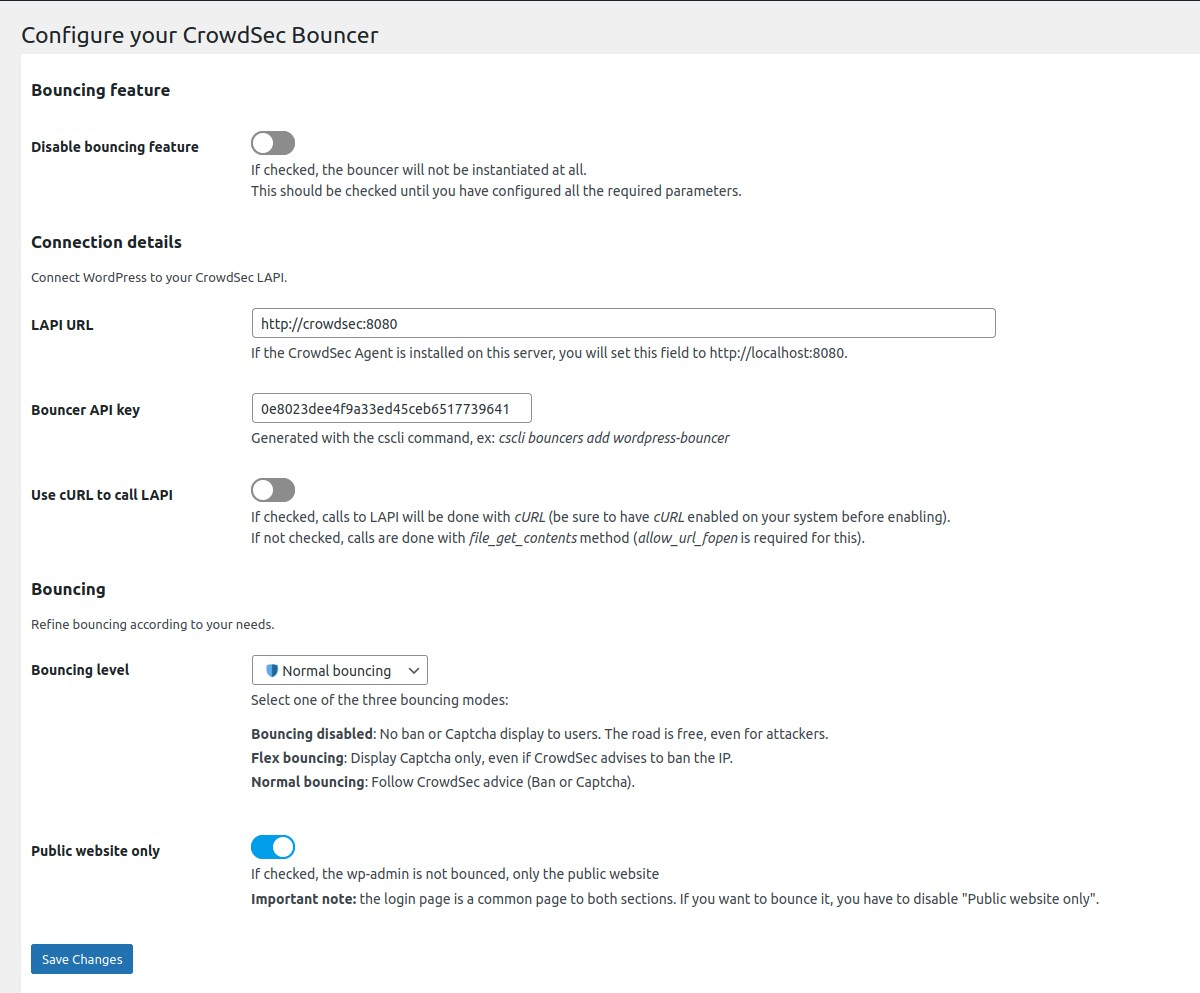
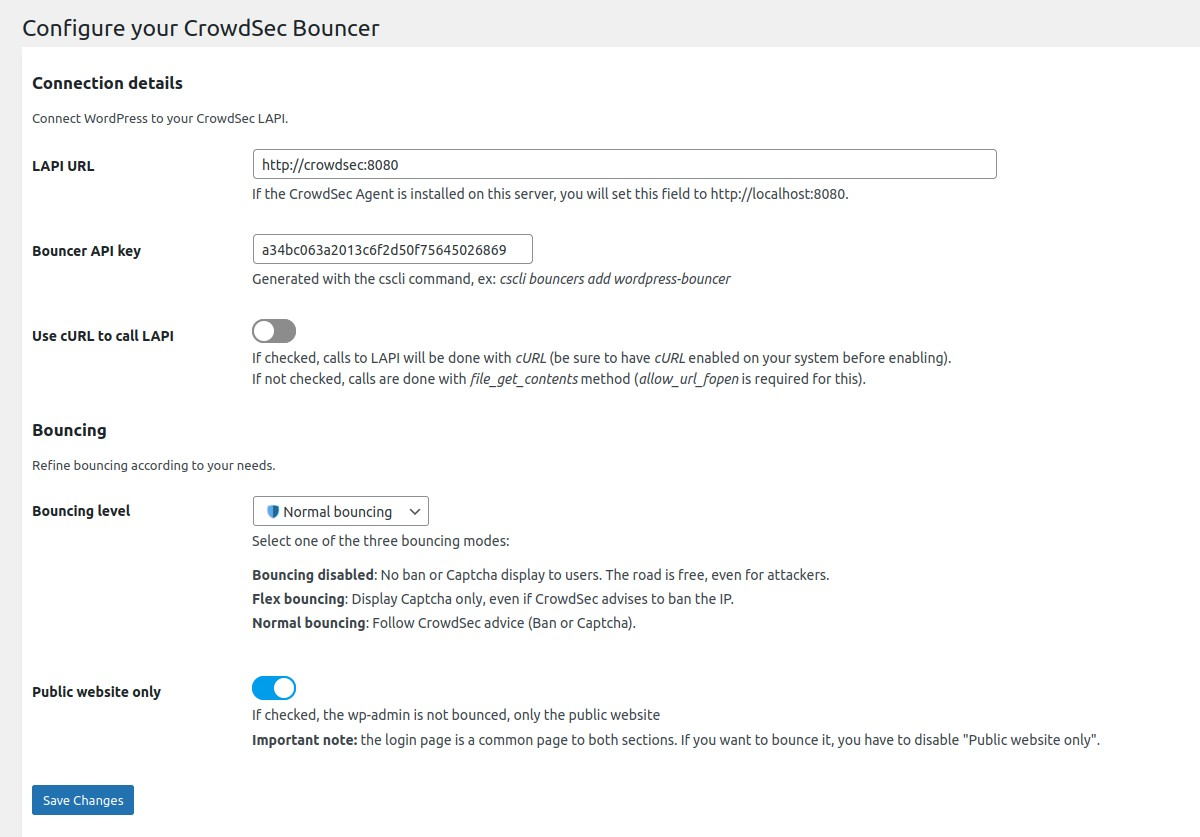
feat(*): Add disable_prod_log config and remove disable_bouncing config, prepare release 1.8.0

diff --git a/tests/e2e-ddev/utils/helpers.js b/tests/e2e-ddev/utils/helpers.js
@@ -12,9 +12,6 @@ const {
     PROXY_IP,
 } = require("./constants");
 
-const COOKIES_FILE_PATH = `${__dirname}/../.cookies.json`;
-const STANDALONE_SETTINGS_FILE_PATH = `${__dirname}/../../../inc/standalone-settings.php`;
-
 const wait = (ms) => new Promise((resolve) => setTimeout(resolve, ms));
 
 jest.setTimeout(TIMEOUT);
@@ -215,37 +212,21 @@ const forceCronRun = async () => {
     await wait(2000);
 };
 
-const storeCookies = async () => {
-    const cookies = await context.cookies();
-    const cookieJson = JSON.stringify(cookies);
-    fs.writeFileSync(COOKIES_FILE_PATH, cookieJson);
-};
-
-const loadCookies = async (context) => {
-    const cookies = fs.readFileSync(COOKIES_FILE_PATH, "utf8");
-    const deserializedCookies = JSON.parse(cookies);
-    await context.addCookies(deserializedCookies);
-};
-
-const deleteExistingStandaloneSettings = async () => {
-    if (fs.existsSync(STANDALONE_SETTINGS_FILE_PATH)) {
-        fs.unlinkSync(STANDALONE_SETTINGS_FILE_PATH);
-    }
-};
 
 const setDefaultConfig = async () => {
     await onAdminGoToSettingsPage();
-    await setToggle("crowdsec_bouncer_disabled", false);
     await fillInput("crowdsec_api_url", LAPI_URL_FROM_WP);
     await fillInput("crowdsec_api_key", BOUNCER_KEY);
     await setToggle("crowdsec_use_curl", false);
+    await selectByName("crowdsec_bouncing_level", "normal_bouncing");
     await onAdminSaveSettings(false);
 
     await onAdminGoToAdvancedPage();
     await setToggle("crowdsec_debug_mode", true);
+    await setToggle("crowdsec_disable_prod_log", false);
     await setToggle("crowdsec_display_errors", true);
     await setToggle("crowdsec_hide_mentions", false);
-    await page.selectOption("[name=crowdsec_cache_system]", "phpfs");
+    await selectByName("crowdsec_cache_system", "phpfs");
     await setToggle("crowdsec_stream_mode", false);
     // We have to save in order that cache duration fields to be visible (not disabled)
     await onAdminSaveSettings(false);
@@ -254,7 +235,7 @@ const setDefaultConfig = async () => {
     await fillInput("crowdsec_stream_mode_refresh_frequency", 1);
 
     await fillInput("crowdsec_trust_ip_forward_list", PROXY_IP);
-    await page.selectOption("[name=crowdsec_fallback_remediation]", "captcha");
+    await selectByName("crowdsec_fallback_remediation", "captcha");
 
     // Geolocation
     await setToggle("crowdsec_geolocation_enabled", false);
@@ -293,9 +274,6 @@ module.exports = {
     onCaptchaPageRefreshCaptchaImage,
     forceCronRun,
     fillInput,
-    storeCookies,
-    loadCookies,
-    deleteExistingStandaloneSettings,
     setDefaultConfig,
     selectElement,
     selectByName,

diff --git a/tests/e2e-ddev/__tests__/2-live-mode-remediations.js b/tests/e2e-ddev/__tests__/2-live-mode-remediations.js
@@ -16,7 +16,7 @@ const {
 	onCaptchaPageRefreshCaptchaImage,
 	fillInput,
 	setDefaultConfig,
-	removeAllDecisions,
+	removeAllDecisions, selectByName,
 } = require("../utils/helpers");
 
 const { CURRENT_IP } = require("../utils/constants");
@@ -128,7 +128,7 @@ describe(`Run in Live mode`, () => {
 	it('Should bypass is bouncing disabled"', async () => {
 		await goToAdmin();
 		await onAdminGoToSettingsPage();
-		await setToggle("crowdsec_bouncer_disabled", true);
+		await selectByName("crowdsec_bouncing_level", "bouncing_disabled");
     	await onAdminSaveSettings();
 		await publicHomepageShouldBeAccessible();
 	});
@@ -137,7 +137,7 @@ describe(`Run in Live mode`, () => {
 		await removeAllDecisions();
 		await goToAdmin();
 		await onAdminGoToSettingsPage();
-		await setToggle("crowdsec_bouncer_disabled", false);
+		await selectByName("crowdsec_bouncing_level", "normal_bouncing");
 		await setToggle("crowdsec_use_curl", true);
 		await onAdminSaveSettings();
 	});

diff --git a/vendor/composer/installed.php b/vendor/composer/installed.php
@@ -3,7 +3,7 @@
         'name' => 'crowdsec/wordpress-bouncer',
         'pretty_version' => 'dev-main',
         'version' => 'dev-main',
-        'reference' => '8836e491ba693331bdb9ee09a1dbdc93fc83f305',
+        'reference' => '1f21eac86b0fc185adb425233e88e7fe4c1be34f',
         'type' => 'project',
         'install_path' => __DIR__ . '/../../',
         'aliases' => array(),
@@ -20,9 +20,9 @@
             'dev_requirement' => false,
         ),
         'crowdsec/bouncer' => array(
-            'pretty_version' => 'v0.27.0',
-            'version' => '0.27.0.0',
-            'reference' => 'aab56fb3731a970eba6c47f65dcace915bb97769',
+            'pretty_version' => 'v0.28.0',
+            'version' => '0.28.0.0',
+            'reference' => '5abadcb497dfd4cbbd0420ee0f93561f276a529b',
             'type' => 'library',
             'install_path' => __DIR__ . '/../crowdsec/bouncer',
             'aliases' => array(),
@@ -31,7 +31,7 @@
         'crowdsec/wordpress-bouncer' => array(
             'pretty_version' => 'dev-main',
             'version' => 'dev-main',
-            'reference' => '8836e491ba693331bdb9ee09a1dbdc93fc83f305',
+            'reference' => '1f21eac86b0fc185adb425233e88e7fe4c1be34f',
             'type' => 'project',
             'install_path' => __DIR__ . '/../../',
             'aliases' => array(),
@@ -161,9 +161,9 @@
             ),
         ),
         'symfony/config' => array(
-            'pretty_version' => 'v5.4.9',
-            'version' => '5.4.9.0',
-            'reference' => '8f551fe22672ac7ab2c95fe46d899f960ed4d979',
+            'pretty_version' => 'v5.4.11',
+            'version' => '5.4.11.0',
+            'reference' => 'ec79e03125c1d2477e43dde8528535d90cc78379',
             'type' => 'library',
             'install_path' => __DIR__ . '/../symfony/config',
             'aliases' => array(),
@@ -179,18 +179,18 @@
             'dev_requirement' => false,
         ),
         'symfony/filesystem' => array(
-            'pretty_version' => 'v5.4.9',
-            'version' => '5.4.9.0',
-            'reference' => '36a017fa4cce1eff1b8e8129ff53513abcef05ba',
+            'pretty_version' => 'v5.4.11',
+            'version' => '5.4.11.0',
+            'reference' => '6699fb0228d1bc35b12aed6dd5e7455457609ddd',
             'type' => 'library',
             'install_path' => __DIR__ . '/../symfony/filesystem',
             'aliases' => array(),
             'dev_requirement' => false,
         ),
         'symfony/finder' => array(
-            'pretty_version' => 'v5.4.8',
-            'version' => '5.4.8.0',
-            'reference' => '9b630f3427f3ebe7cd346c277a1408b00249dad9',
+            'pretty_version' => 'v5.4.11',
+            'version' => '5.4.11.0',
+            'reference' => '7872a66f57caffa2916a584db1aa7f12adc76f8c',
             'type' => 'library',
             'install_path' => __DIR__ . '/../symfony/finder',
             'aliases' => array(),

diff --git a/inc/bouncer-instance-standalone.php b/inc/bouncer-instance-standalone.php
@@ -6,37 +6,24 @@ use Monolog\Formatter\LineFormatter;
 use Monolog\Handler\RotatingFileHandler;
 use Monolog\Logger;
 
-
-/** @var Logger|null */
-$crowdSecLogger = null;
-
-function getStandaloneCrowdSecLoggerInstance(string $crowdsecLogPath, bool $debugMode, string $crowdsecDebugLogPath): Logger
+function getStandaloneCrowdSecLoggerInstance(bool $debugMode, bool $disableProd): Logger
 {
-    // Singleton for this function
-    global $crowdSecLogger;
-    if ($crowdSecLogger) {
-        return $crowdSecLogger;
-    }
-
-    // Log more data if debug mode is enabled
 
     $logger = new Logger('wp_bouncer');
-
-    $fileHandler = new RotatingFileHandler($crowdsecLogPath, 0, Logger::INFO);
-    $fileHandler->setFormatter(new LineFormatter("%datetime%|%level%|%context%\n"));
-    $logger->pushHandler($fileHandler);
-
-    // Set custom readable logger for debugMode=1
+    if(!$disableProd){
+        $fileHandler = new RotatingFileHandler(Constants::CROWDSEC_LOG_PATH, 0, Logger::INFO);
+        $fileHandler->setFormatter(new LineFormatter("%datetime%|%level%|%context%\n"));
+        $logger->pushHandler($fileHandler);
+    }
+    // Log more data if debug mode is enabled
     if ($debugMode) {
-        $debugFileHandler = new RotatingFileHandler($crowdsecDebugLogPath, 0, Logger::DEBUG);
+        $debugFileHandler = new RotatingFileHandler(Constants::CROWDSEC_DEBUG_LOG_PATH, 0, Logger::DEBUG);
 		$debugFileHandler->setFormatter(new LineFormatter("%datetime%|%level%|%context%\n"));
 		$logger->pushHandler($debugFileHandler);
     }
 
     return $logger;
 }
-
-$crowdSecBouncer = null;
 
 function getBouncerInstanceStandalone(array $configs): Bouncer
 {
@@ -56,8 +43,8 @@ function getBouncerInstanceStandalone(array $configs): Bouncer
             throw new BouncerException("Unknown $bouncingLevel");
     }
     $isDebug = !empty($configs['debug_mode']);
-    $logger = getStandaloneCrowdSecLoggerInstance(Constants::CROWDSEC_LOG_PATH, $isDebug,
-        Constants::CROWDSEC_DEBUG_LOG_PATH);
+    $disableProd = !empty($configs['disable_prod_log']);
+    $logger = getStandaloneCrowdSecLoggerInstance($isDebug, $disableProd);
 
     try {
         $finalConfigs = array_merge($configs, ['max_remediation_level' => $maxRemediationLevel]);

diff --git a/inc/Bounce.php b/inc/Bounce.php
@@ -50,6 +50,7 @@ class Bounce extends AbstractBounce
             'api_timeout' => Constants::API_TIMEOUT,
             // Debug
             'debug_mode' => $this->getBoolSettings('crowdsec_debug_mode'),
+            'disable_prod_log' => $this->getBoolSettings('crowdsec_disable_prod_log'),
             'log_directory_path' => Constants::CROWDSEC_LOG_BASE_PATH,
             'forced_test_ip' => $this->getStringSettings('crowdsec_forced_test_ip'),
             'forced_test_forwarded_ip' => $this->getStringSettings('crowdsec_forced_test_forwarded_ip'),
@@ -210,18 +211,16 @@ class Bounce extends AbstractBounce
      */
     public function shouldBounceCurrentIp(): bool
     {
-        $shouldNotBounce = $this->getBoolSettings('crowdsec_bouncer_disabled');
-        if ($shouldNotBounce) {
+        $bouncingDisabled = (Constants::BOUNCING_LEVEL_DISABLED === $this->escape($this->getStringSettings('crowdsec_bouncing_level')));
+        if ($bouncingDisabled) {
             if($this->logger){
                 $this->logger->warning('', [
                     'type' => 'WP_CONFIG_BOUNCER_DISABLED',
                     'message' => 'Will not bounce because bouncing is disabled.',
                 ]);
             }
-
             return false;
         }
-
 
         // We should not bounce when headers already sent
         if (headers_sent()) {
@@ -274,10 +273,6 @@ class Bounce extends AbstractBounce
             return false;
         }
 
-        $bouncingDisabled = (Constants::BOUNCING_LEVEL_DISABLED === $this->escape($this->getStringSettings('crowdsec_bouncing_level')));
-        if ($bouncingDisabled) {
-            return false;
-        }
 
         return true;
     }
@@ -389,7 +384,8 @@ class Bounce extends AbstractBounce
     public function initLogger(array $configs): void
     {
         $isDebug = !empty($configs['crowdsec_debug_mode']);
-        $this->logger = getStandaloneCrowdSecLoggerInstance(Constants::CROWDSEC_LOG_PATH, $isDebug, Constants::CROWDSEC_DEBUG_LOG_PATH);
+        $disableProd = !empty($configs['crowdsec_disable_prod_log']);
+        $this->logger = getStandaloneCrowdSecLoggerInstance($isDebug, $disableProd);
 
     }
 }

diff --git a/inc/options-config.php b/inc/options-config.php
@@ -4,11 +4,10 @@ require_once __DIR__ . '/Constants.php';
 function getCrowdSecOptionsConfig()
 {
     return [
-        ['name' => 'crowdsec_bouncer_disabled', 'default' => 'on', 'autoInit' => true],
         ['name' => 'crowdsec_api_url', 'default' => '', 'autoInit' => true],
         ['name' => 'crowdsec_api_key', 'default' => '', 'autoInit' => true],
         ['name' => 'crowdsec_use_curl', 'default' => '', 'autoInit' => true],
-        ['name' => 'crowdsec_bouncing_level', 'default' => Constants::BOUNCING_LEVEL_NORMAL, 'autoInit' => true],
+        ['name' => 'crowdsec_bouncing_level', 'default' => Constants::BOUNCING_LEVEL_DISABLED, 'autoInit' => true],
         ['name' => 'crowdsec_public_website_only', 'default' => 'on', 'autoInit' => true],
         ['name' => 'crowdsec_stream_mode', 'default' => '', 'autoInit' => true],
         ['name' => 'crowdsec_stream_mode_refresh_frequency', 'default' => 60, 'autoInit' => true],
@@ -46,6 +45,7 @@ function getCrowdSecOptionsConfig()
         ['name' => 'crowdsec_theme_text_ban_wall_footer', 'default' => '', 'autoInit' => true],
         ['name' => 'crowdsec_theme_custom_css', 'default' => '', 'autoInit' => true],
         ['name' => 'crowdsec_debug_mode', 'default' => '', 'autoInit' => true],
+        ['name' => 'crowdsec_disable_prod_log', 'default' => '', 'autoInit' => true],
 		['name' => 'crowdsec_display_errors', 'default' => '', 'autoInit' => true],
         ['name' => 'crowdsec_forced_test_ip', 'default' => '', 'autoInit' => true],
         ['name' => 'crowdsec_forced_test_forwarded_ip', 'default' => '', 'autoInit' => true],

diff --git a/inc/admin/advanced-settings.php b/inc/admin/advanced-settings.php
@@ -355,7 +355,11 @@ function adminAdvancedSettings()
 
     // Field "crowdsec_debug_mode"
     addFieldCheckbox('crowdsec_debug_mode', 'Enable debug mode', 'crowdsec_plugin_advanced_settings', 'crowdsec_advanced_settings', 'crowdsec_admin_advanced_debug', function () {}, function () {}, '
-    <p>Should not be used in production.<br>When this mode is enabled, a debug.log file will be written in the <i>wp-content/plugins/crowdsec/logs</i> folder.<br> Note that by default, there is always a prod.log file in the same folder.</p>');
+    <p>Should not be used in production.<br>When this mode is enabled, a debug.log file will be written in the <i>wp-content/plugins/crowdsec/logs</i> folder.</p>');
+
+    // Field "crowdsec_disable_prod_log"
+    addFieldCheckbox('crowdsec_disable_prod_log', 'Disable prod log', 'crowdsec_plugin_advanced_settings', 'crowdsec_advanced_settings', 'crowdsec_admin_advanced_debug', function () {}, function () {}, '
+    <p>By default, a prod.log file will be written in the <i>wp-content/plugins/crowdsec/logs</i> folder.<br>You can disable this log here.</p>');
 
 	/*******************************
 	 ** Section "Display errors" **

diff --git a/vendor/composer/autoload_static.php b/vendor/composer/autoload_static.php
@@ -183,7 +183,7 @@ class ComposerStaticInit4b873ba8e7b65775adbfceed536a1658
         'CrowdSecBouncer\\Geolocation' => __DIR__ . '/..' . '/crowdsec/bouncer/src/Geolocation.php',
         'CrowdSecBouncer\\IBounce' => __DIR__ . '/..' . '/crowdsec/bouncer/src/IBounce.php',
         'CrowdSecBouncer\\Remediation' => __DIR__ . '/..' . '/crowdsec/bouncer/src/Remediation.php',
-        'CrowdSecBouncer\\RestClient\\ClientAbstract' => __DIR__ . '/..' . '/crowdsec/bouncer/src/RestClient/ClientAbstract.php',
+        'CrowdSecBouncer\\RestClient\\AbstractClient' => __DIR__ . '/..' . '/crowdsec/bouncer/src/RestClient/AbstractClient.php',
         'CrowdSecBouncer\\RestClient\\Curl' => __DIR__ . '/..' . '/crowdsec/bouncer/src/RestClient/Curl.php',
         'CrowdSecBouncer\\RestClient\\FileGetContents' => __DIR__ . '/..' . '/crowdsec/bouncer/src/RestClient/FileGetContents.php',
         'CrowdSecBouncer\\StandaloneBounce' => __DIR__ . '/..' . '/crowdsec/bouncer/src/StandaloneBounce.php',

diff --git a/vendor/crowdsec/bouncer/src/Bouncer.php b/vendor/crowdsec/bouncer/src/Bouncer.php
@@ -6,7 +6,7 @@ require_once __DIR__ . '/templates/captcha.php';
 require_once __DIR__ . '/templates/access-forbidden.php';
 
 use CrowdSecBouncer\Fixes\Gregwar\Captcha\CaptchaBuilder;
-use CrowdSecBouncer\RestClient\ClientAbstract;
+use CrowdSecBouncer\RestClient\AbstractClient;
 use ErrorException;
 use Gregwar\Captcha\PhraseBuilder;
 use IPLib\Factory;
@@ -74,7 +74,7 @@ class Bouncer
             'type' => 'BOUNCER_INIT',
             'logger' => \get_class($this->logger),
             'max_remediation_level' => $this->maxRemediationLevelIndex,
-            'configs' => $this->configs
+            'configs' => array_merge($this->configs, ['api_key' => '***'])
         ]);
     }
 
@@ -317,7 +317,7 @@ class Bouncer
         return $this->getApiCache()->getClient();
     }
 
-    public function getRestClient(): ClientAbstract
+    public function getRestClient(): AbstractClient
     {
         return $this->getClient()->getRestClient();
     }

diff --git a/vendor/symfony/filesystem/Filesystem.php b/vendor/symfony/filesystem/Filesystem.php
@@ -615,7 +615,7 @@ class Filesystem
      *
      * @return string The new temporary filename (with path), or throw an exception on failure
      */
-    public function tempnam(string $dir, string $prefix/*, string $suffix = ''*/)
+    public function tempnam(string $dir, string $prefix/* , string $suffix = '' */)
     {
         $suffix = \func_num_args() > 2 ? func_get_arg(2) : '';
         [$scheme, $hierarchy] = $this->getSchemeAndHierarchy($dir);
@@ -700,7 +700,7 @@ class Filesystem
      *
      * @throws IOException If the file is not writable
      */
-    public function appendToFile(string $filename, $content/*, bool $lock = false*/)
+    public function appendToFile(string $filename, $content/* , bool $lock = false */)
     {
         if (\is_array($content)) {
             throw new \TypeError(sprintf('Argument 2 passed to "%s()" must be string or resource, array given.', __METHOD__));

diff --git a/vendor/crowdsec/bouncer/src/AbstractBounce.php b/vendor/crowdsec/bouncer/src/AbstractBounce.php
@@ -135,10 +135,12 @@ abstract class AbstractBounce implements IBounce
 
         $this->logger = new Logger($loggerName);
         $logDir = $configs['log_directory_path']??__DIR__.'/.logs';
-        $logPath = $logDir . '/prod.log';
-        $fileHandler = new RotatingFileHandler($logPath, 0, Logger::INFO);
-        $fileHandler->setFormatter(new LineFormatter("%datetime%|%level%|%context%\n"));
-        $this->logger->pushHandler($fileHandler);
+        if (empty($configs['disable_prod_log'])) {
+            $logPath = $logDir . '/prod.log';
+            $fileHandler = new RotatingFileHandler($logPath, 0, Logger::INFO);
+            $fileHandler->setFormatter(new LineFormatter("%datetime%|%level%|%context%\n"));
+            $this->logger->pushHandler($fileHandler);
+        }
 
         // Set custom readable logger when debug=true
         if (!empty($configs['debug_mode'])) {

diff --git a/vendor/composer/autoload_classmap.php b/vendor/composer/autoload_classmap.php
@@ -21,7 +21,7 @@ return array(
     'CrowdSecBouncer\\Geolocation' => $vendorDir . '/crowdsec/bouncer/src/Geolocation.php',
     'CrowdSecBouncer\\IBounce' => $vendorDir . '/crowdsec/bouncer/src/IBounce.php',
     'CrowdSecBouncer\\Remediation' => $vendorDir . '/crowdsec/bouncer/src/Remediation.php',
-    'CrowdSecBouncer\\RestClient\\ClientAbstract' => $vendorDir . '/crowdsec/bouncer/src/RestClient/ClientAbstract.php',
+    'CrowdSecBouncer\\RestClient\\AbstractClient' => $vendorDir . '/crowdsec/bouncer/src/RestClient/AbstractClient.php',
     'CrowdSecBouncer\\RestClient\\Curl' => $vendorDir . '/crowdsec/bouncer/src/RestClient/Curl.php',
     'CrowdSecBouncer\\RestClient\\FileGetContents' => $vendorDir . '/crowdsec/bouncer/src/RestClient/FileGetContents.php',
     'CrowdSecBouncer\\StandaloneBounce' => $vendorDir . '/crowdsec/bouncer/src/StandaloneBounce.php',
